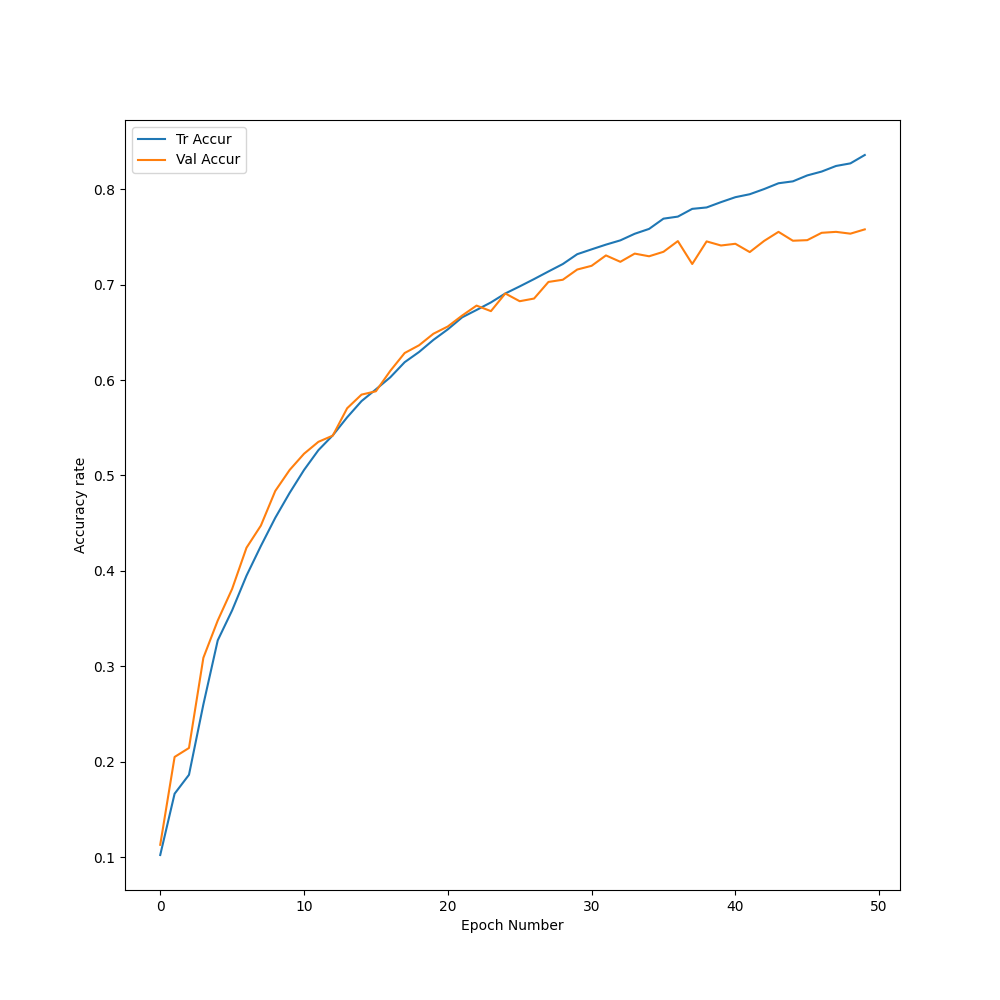
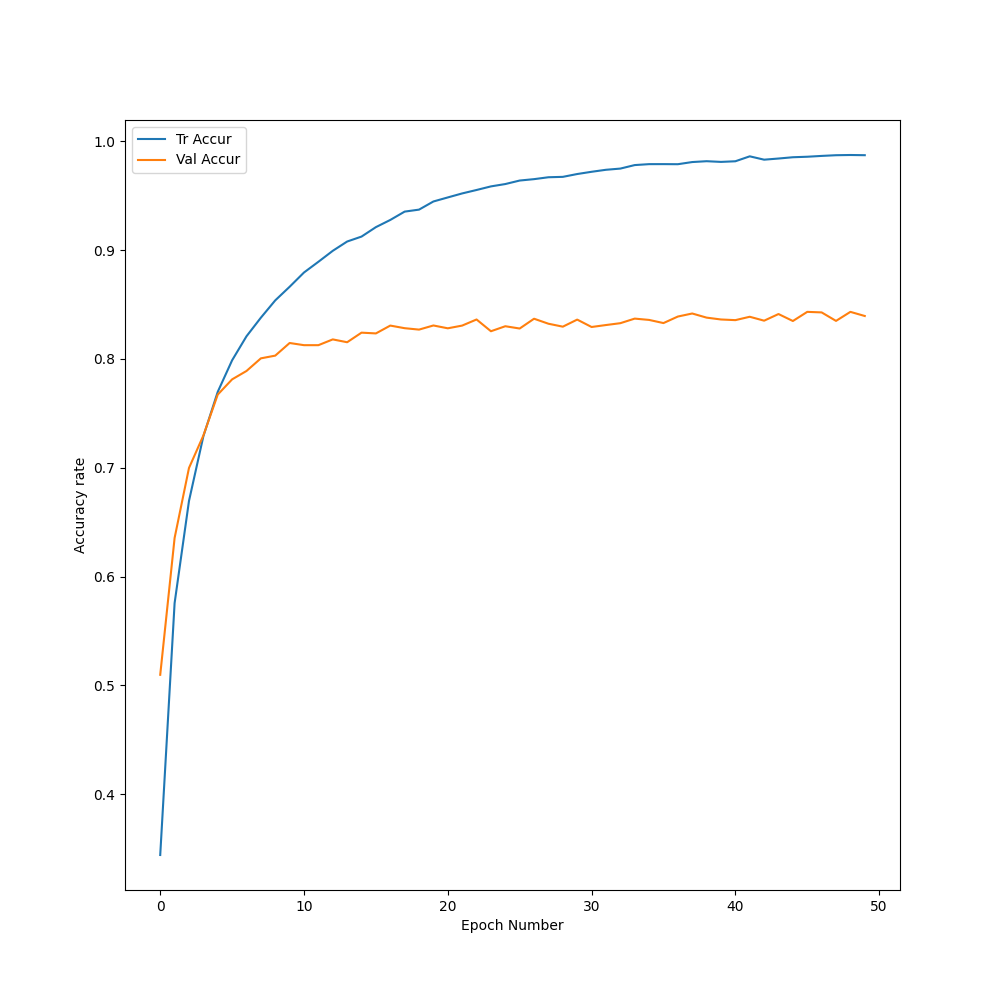
add more convolution layer and batch normalization

diff --git a/models.py b/models.py
@@ -82,3 +82,104 @@ class ImprovedNet_Type2(nn.Module):
         x = self.dropout(F.relu(self.fc2(x)))
         x = self.fc3(x)
         return x
+    
+class ImprovedNet_Typ3(nn.Module):
+    def __init__(self):
+        super(ImprovedNet_Typ3, self).__init__()
+        self.conv1 = nn.Conv2d(3,64,3)
+        self.batch1 = nn.BatchNorm2d(64)
+        self.pool = nn.MaxPool2d(2,2)
+        self.conv2 = nn.Conv2d(64,128,3)
+        self.batch2 = nn.BatchNorm2d(128)
+        self.conv3 = nn.Conv2d(128,256,3)
+        self.batch3 = nn.BatchNorm2d(256)
+        self.fc1 = nn.Linear(256*2*2,120)
+        self.fc2 = nn.Linear(120,84)
+        self.fc3 = nn.Linear(84,10)
+        self.drop1 = nn.Dropout(p=0.5)
+    def forward(self, x):
+        x = self.pool(F.relu(self.batch1(self.conv1(x))))
+        x = self.pool(F.relu(self.batch2(self.conv2(x))))
+        x = self.pool(F.relu(self.batch3(self.conv3(x))))
+        x = x.view(x.size(0), -1)
+        x = F.relu(self.fc1(x))
+        x = self.drop1(x)
+        x = F.relu(self.fc2(x))
+        x = self.drop1(x)
+        x = self.fc3(x)
+        return x
+    
+class ImprovedNet_Typ4(nn.Module):
+    def __init__(self):
+        super(ImprovedNet_Typ4, self).__init__()
+        self.pool = nn.MaxPool2d(2,2,padding=1)
+
+        self.conv1 = nn.Conv2d(3,64,3,padding=1)
+        self.conv2 = nn.Conv2d(64,64,3,padding=1)
+        self.batch1 = nn.BatchNorm2d(64)
+        
+        self.conv3 = nn.Conv2d(64,128,3,padding=1)
+        self.conv4 = nn.Conv2d(128,128,3,padding=1)
+        self.batch2 = nn.BatchNorm2d(128)
+
+        self.conv5 = nn.Conv2d(128,128,3,padding=1)
+        self.conv6 = nn.Conv2d(128,128,3,padding=1)
+        self.conv7 = nn.Conv2d(128,128,1,padding=1)
+        self.batch3 = nn.BatchNorm2d(128)
+
+        self.conv8 = nn.Conv2d(128,256,3,padding=1)
+        self.conv9 = nn.Conv2d(256,256,3,padding=1)
+        self.conv10 = nn.Conv2d(256,256,1,padding=1)
+        self.batch4 = nn.BatchNorm2d(256)
+
+        self.conv11 = nn.Conv2d(256,512,3,padding=1)
+        self.conv12 = nn.Conv2d(512,512,3,padding=1)
+        self.conv13 = nn.Conv2d(512,512,1,padding=1)
+        self.batch5 = nn.BatchNorm2d(512)
+
+        self.fc1 = nn.Linear(512*4*4,1024)
+        self.fc2 = nn.Linear(1024,1024)
+        self.fc3 = nn.Linear(1024,10)
+        self.drop1 = nn.Dropout(p=0.5)
+    def forward(self, x):
+        x = self.conv1(x)
+        x = self.conv2(x)
+        x = self.pool(x)
+        x = self.batch1(x)
+        x = F.relu(x)
+
+        x = self.conv3(x)
+        x = self.conv4(x)
+        x = self.pool(x)
+        x = self.batch2(x)
+        x = F.relu(x)
+
+        x = self.conv5(x)
+        x = self.conv6(x)
+        x = self.conv7(x)
+        x = self.pool(x)
+        x = self.batch3(x)
+        x = F.relu(x)
+
+        x = self.conv8(x)
+        x = self.conv9(x)
+        x = self.conv10(x)
+        x = self.pool(x)
+        x = self.batch4(x)
+        x = F.relu(x)
+
+        x = self.conv11(x)
+        x = self.conv12(x)
+        x = self.conv13(x)
+        x = self.pool(x)
+        x = self.batch5(x)
+        x = F.relu(x)
+
+        x = x.view(-1,512*4*4)
+
+        x = F.relu(self.fc1(x))
+        x = self.drop1(x)
+        x = F.relu(self.fc2(x))
+        x = self.drop1(x)
+        x = self.fc3(x)
+        return x

diff --git a/main.py b/main.py
@@ -12,11 +12,13 @@ import numpy as np
 transform_train = transforms.Compose([
     transforms.RandomHorizontalFlip(),
     transforms.RandomGrayscale(),
-    transforms.ToTensor() 
+    transforms.ToTensor(),
+    transforms.Normalize(mean=[0.5,0.5,0.5], std=[0.5,0.5,0.5])
 ])
 
 transform_valid = transforms.Compose([
-    transforms.ToTensor() 
+    transforms.ToTensor(),
+    transforms.Normalize(mean=[0.5,0.5,0.5], std=[0.5,0.5,0.5])
 ])
 
 train_dataset = torchvision.datasets.CIFAR10(root='./data', train=True, transform=transform_train, download=True)
@@ -28,7 +30,7 @@ test_data_loader = torch.utils.data.DataLoader(test_dataset, batch_size=128, shu
 #size of test dataset is 79 
 
 #choose the model
-model = models.ImprovedNet()
+model = models.ImprovedNet_Typ4()
 
 #train on gpu
 if not torch.cuda.is_available():
@@ -38,9 +40,13 @@ else:
 
 torch.device = torch.device('cuda:0' if torch.cuda.is_available() else 'cpu')
 print("Using device: ", torch.device)
+model = model.to(torch.device)
+
+weight_decay = 1e-4
 
 criterion = nn.CrossEntropyLoss()
-optimizer = torch.optim.SGD(model.parameters(), lr=0.001, momentum=0.9)
+optimizer = torch.optim.SGD(model.parameters(), lr=0.001, weight_decay=weight_decay, momentum=0.9)
+
 
 #record the history data
 history = []
@@ -55,9 +61,11 @@ for epoch in range(50):
     for i, data in enumerate(train_data_loader, 0):
         #input size [128,3,32,32]
         input, labels = data
+        input = input.to(torch.device)
+        labels = labels.to(torch.device)
         #preprocessing
-        updated_input = dp.image_normalize(input.numpy())
-        input = torch.from_numpy(updated_input)
+        # updated_input = dp.image_normalize(input.numpy())
+        # input = torch.from_numpy(updated_input)
         #clear the gradient from the previous result
         optimizer.zero_grad()
         outputs = model(input)
@@ -82,9 +90,11 @@ for epoch in range(50):
     with torch.no_grad():
         for i, data in enumerate(test_data_loader, 0):
             images, labels = data
+            images = images.to(torch.device)
+            labels = labels.to(torch.device)
             #preprocessing the data
-            updated_input = dp.image_normalize(images.numpy())
-            input = torch.from_numpy(updated_input)
+            # updated_input = dp.image_normalize(images.numpy())
+            # input = torch.from_numpy(updated_input)
             outputs = model(images)
             #get current loss
             loss = criterion(outputs, labels)
